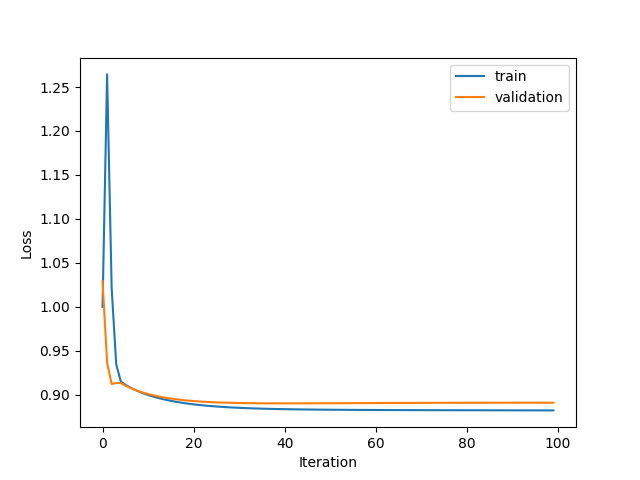
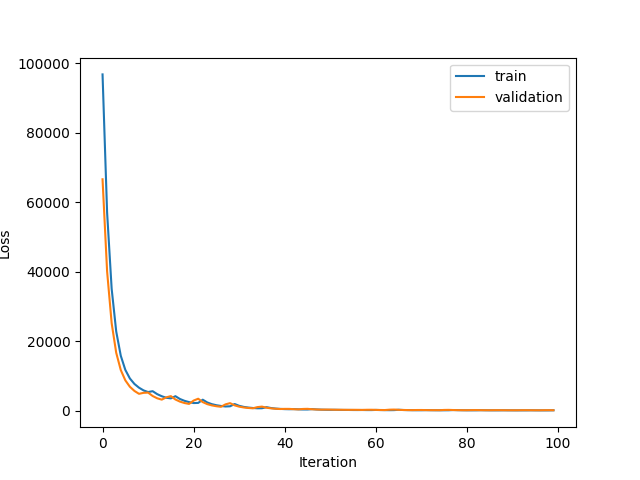
Modify the 2nd part.
Modify the loss function.

diff --git a/12.py b/12.py
@@ -3,16 +3,19 @@ from sklearn.cross_validation import train_test_split
 import numpy as np
 import matplotlib.pyplot as plt
 import os
-import tensorflow as tf
 import matplotlib.pyplot as plt
 
 feature_size = 14
 x, y = ds.load_svmlight_file("./data/australian")
-train_x, val_x, train_y, val_y = train_test_split(x, y, test_size=0.2)
+train_x, val_x, train_y, val_y = train_test_split(x, y, test_size=0.3)
 
 
 train_x = train_x.toarray().astype(np.float32)
+temp = np.ones(shape=[len(train_y), 1], dtype=np.float32)
+train_x = np.concatenate([train_x, temp], axis=1)
 val_x = val_x.toarray().astype(np.float32)
+temp = np.ones(shape=[len(val_y), 1], dtype=np.float32)
+val_x = np.concatenate([val_x, temp], axis=1)
 train_y = train_y.astype(np.float32).reshape([len(train_y), 1])
 val_y = val_y.astype(np.float32).reshape([len(val_y), 1])
 
@@ -20,25 +23,26 @@ ite = []
 train_loss_set = []
 val_loss_set = []
 
-w = np.zeros(shape=[feature_size, 1])
-
+w = np.random.rand(feature_size + 1, 1)
+bias = np.zeros(shape=[feature_size + 1, 1])
+bias[len(bias)-1][0] = 1.
 
 # training
-iteration = 200
-lr = 0.01
+iteration = 100
+lr = 1e-6
 C = 0.1
 for i in range(0, iteration):
     ite.append(i)
     pred = np.matmul(train_x, w)
     hinge_loss = np.maximum(1 - train_y * pred, 0)
-    train_loss = np.mean(hinge_loss**2) + C * np.sum(w**2)
+    train_loss = np.mean(hinge_loss ** 2) + C * np.sum((w - bias) ** 2)
     gradient = -np.matmul(train_x.transpose(), hinge_loss * train_y) / len(train_y)
-    w -= lr * (gradient + 2 * C * w)
+    w -= lr * (gradient + 2 * C * (w - w[len(w) - 1][0] * bias))
     train_loss_set.append(train_loss)
-
+    
     val_pred = np.matmul(val_x, w)
     val_hinge_loss = np.maximum(1 - val_y * val_pred, 0)
-    val_loss = np.mean(val_hinge_loss**2) + C * np.sum(w**2)
+    val_loss = np.mean(val_hinge_loss ** 2) + C * np.sum((w - w[len(w) - 1][0] * bias) ** 2)
     val_loss_set.append(val_loss)
 
 plt.plot(ite, train_loss_set, label='train')
